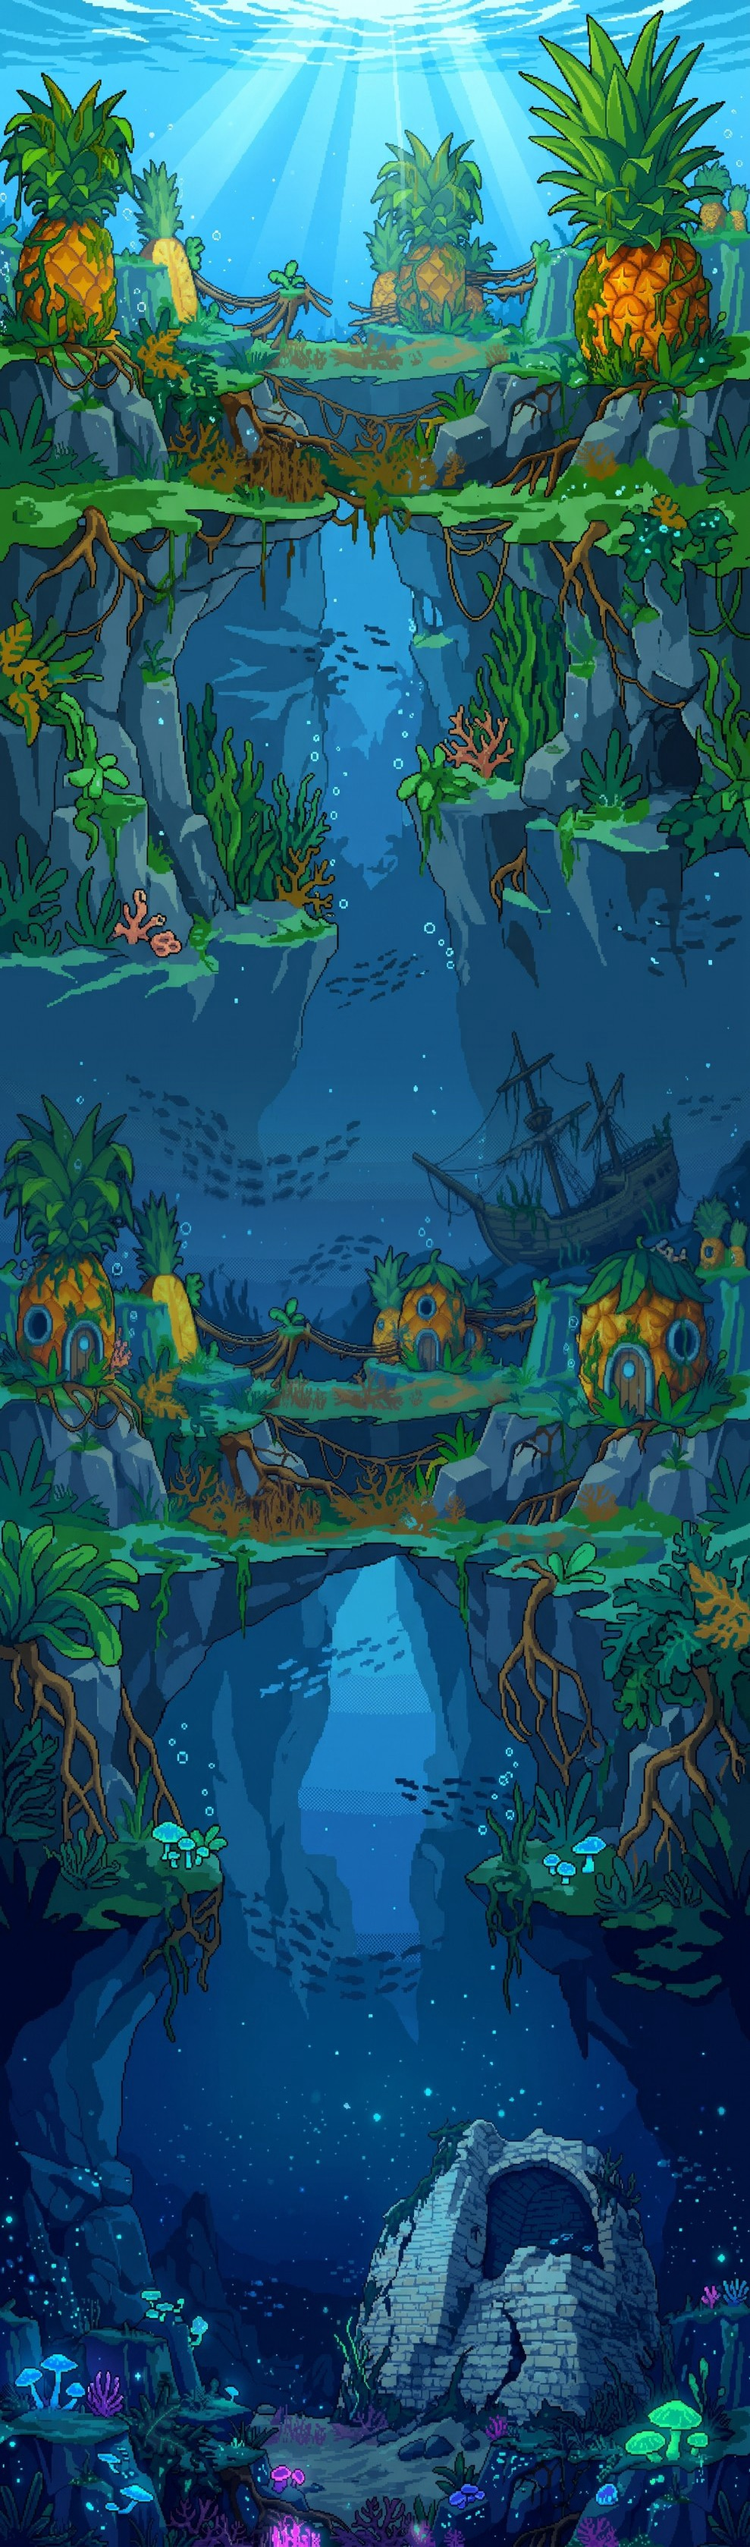
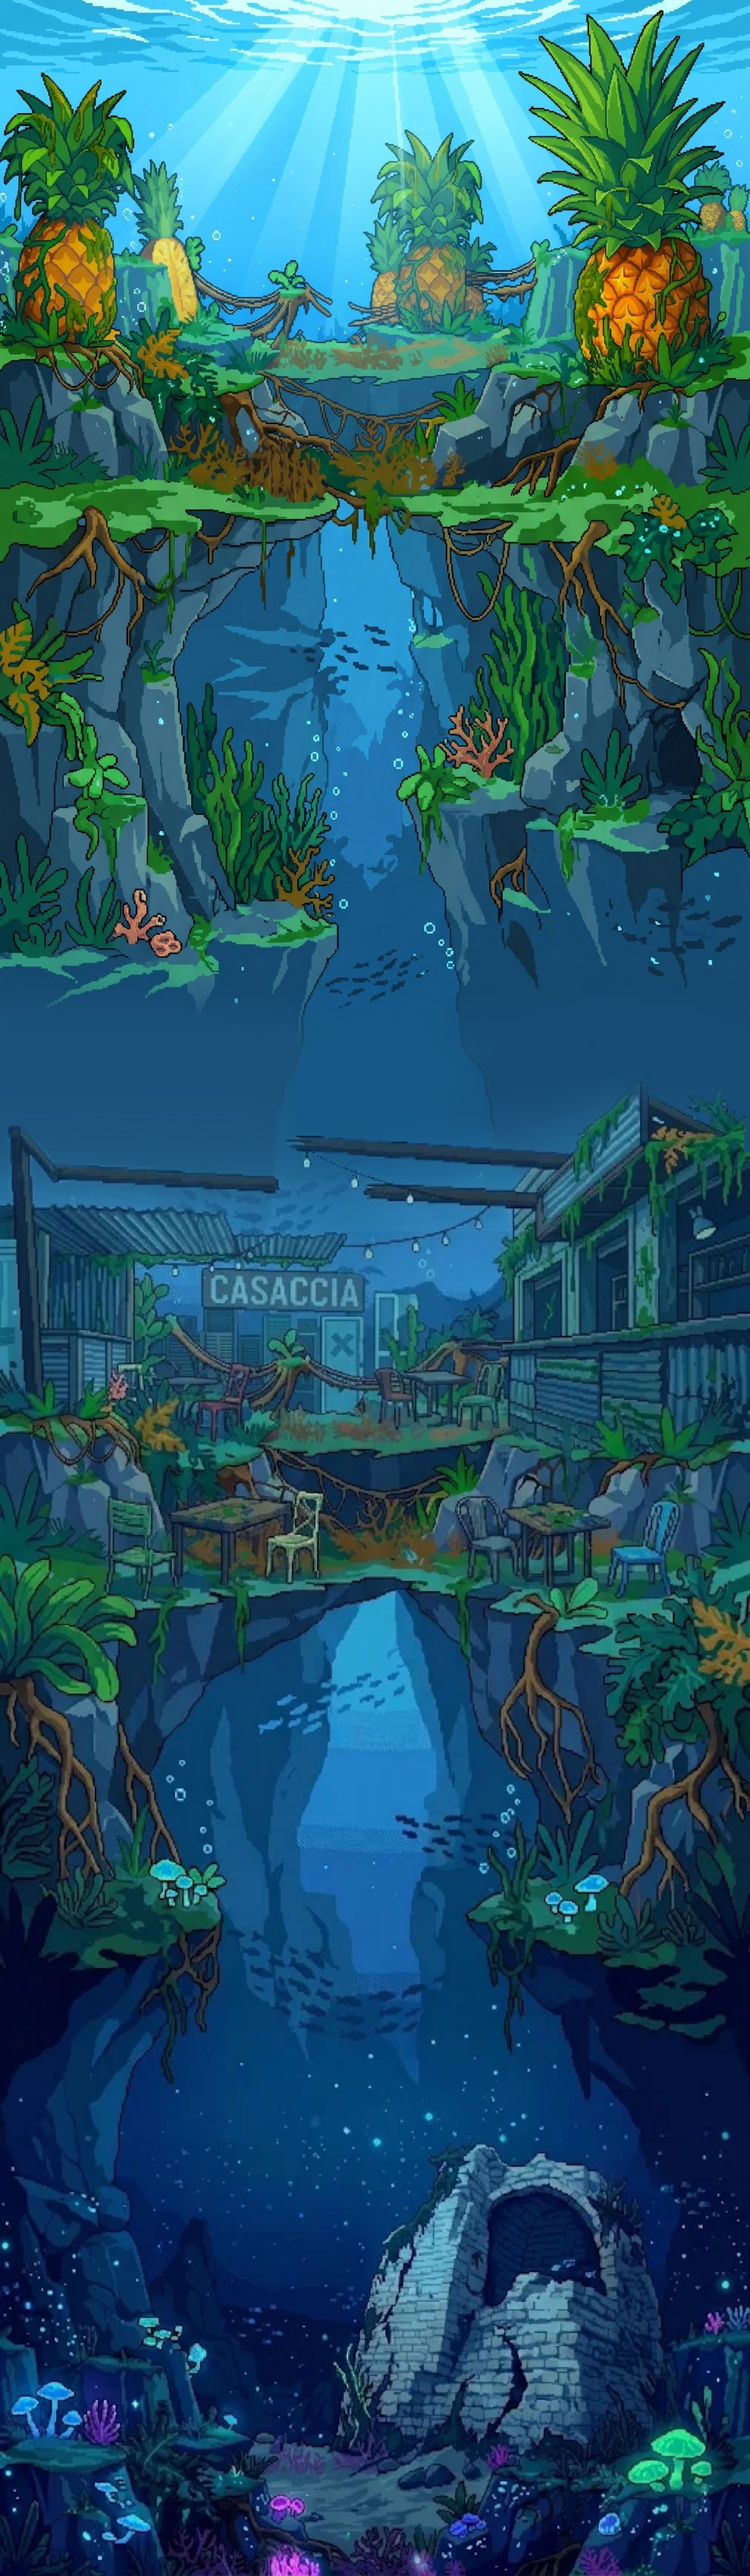
Nuovo fondale sott'acqua: ananas, Casaccia e torre affondata

diff --git a/index.html b/index.html
@@ -20,7 +20,7 @@
 <link rel="preconnect" href="https://fonts.googleapis.com">
 <link rel="preconnect" href="https://fonts.gstatic.com" crossorigin>
 <link rel="stylesheet" href="https://fonts.googleapis.com/css2?family=Bowlby+One&family=Baloo+2:wght@500;700;800&display=swap">
-<link rel="stylesheet" href="style.css?v=123">
+<link rel="stylesheet" href="style.css?v=124">
 
 <div id="schermo">
 <canvas id="d2" aria-label="Gioco Cicciobomba"></canvas>
@@ -89,6 +89,6 @@
 <div id="erroreT" hidden>Il gioco non è riuscito a partire. Controlla la connessione e ricarica la pagina.</div>
 
 </div>
-<script src="game.js?v=123"></script>
+<script src="game.js?v=124"></script>
 
 </body></html>

diff --git a/CLAUDE.md b/CLAUDE.md
@@ -77,7 +77,7 @@ Gioco per browser pensato per il telefono in orizzontale, pubblicato con GitHub 
 - Lele Volley (`palla:true`) è disegnato dall'utente: `boss_schiacciata.png` (schiacciata, 4 fotogrammi da 240x254, ingranditi di 1,45), `boss_pallavolo.png` (5 da 240x434: del primo foglio della schiacciata resta in uso solo la 4, in guardia), `boss_ricezione.png` (3 da 300x339, ingranditi di 1,32) e `boss_stordito.png` (4 da 260x254, ingranditi di 1,35), `boss_sconfitto.png` (4 da 280x254, ingranditi di 1,4: cade, sudato, dorme, KO; resta a terra anche nella schermata finale), originali in `paesaggio/`, disegnati da `disegnaSchiacc` e tutti rimpiccioliti di `BZ`. Quando si sposta usa i passettini di `boss_passi.png` (4 fotogrammi, ingranditi di 1,3: all'utente vanno bene così, non sono una camminata vera); da fermo la posa 4 mossa dal codice. È una partita di pallavolo: rete a `RETE`, Matteo a sinistra (non la passa), il boss a destra (`b.meta`), una sola palla alla volta. Lele è poco più alto di Matteo (`BZ`: 2,08 caselle contro 1,75; alto uguale all'utente sembrava troppo piccolo). Prima del via, quando Matteo si è alzato, dice una frase di sfida in un fumetto (`fumettoSfida`, `SFIDA`). Le sue pose sono di tre quarti, con un piede più in alto dell'altro: nelle pose con i due piedi a terra lo si appoggia su quello più alto, così toccano entrambi e l'altro copre un po' il pavimento. Ogni attacco è una `battuta`: la palla piove, bagher, alzata, schiaccia col cerchio rosso, una volta su tre addosso a Matteo e le altre a 2-5 caselle da lui (`miraPalla`); finché è in gioco, anche dopo il primo rimbalzo, fa male se la tocchi senza scatto; ogni terza è più veloce (`b.forte`). Il boss si colpisce solo ribattendo la palla con lo scatto entro 1,5 caselle (`ribatti`, che rende il fiato): né lo scatto addosso né le esplosioni gli fanno male. In tutta la partita compare un solo cuore, dopo il terzo colpo (`b.cuore`). La prima volta c'è un tutorial sulla prima palla (`M.tut`): spiega il cerchio rosso, ferma il gioco quando la palla è a portata (`G.stato='ora'`, `#tScatto.ora`) e riparte solo con lo scatto, poi spiega le regole (`S.consigli`, chiave `lele_3`). Le fasi sono le vite perse: alla 5 (2 vite) Lele va un po' più veloce, alla 6 (l'ultima) di più (`velFase`, che vale anche per la palla, schiacciate e ribattute: stessa curva percorsa più in fretta, `c.g`), e all'inizio della 6 dice "Prendi questo Cicciobomba!" in un fumetto (`FRASE_6`, senza fermare il gioco). Ogni vita persa allunga lo scambio di una ribattuta (`palloneAlBoss`): 1 con tutte le vite, 6 all'ultima; fino ad allora riceve e rilancia, e a ogni scambio la palla va un po' più veloce.
 - Con `?livello=2` nell'indirizzo la partita parte da sola dall'Abisso (`PARTENZA`), senza menu né guida: serve a provarlo da solo; con `?boss=2` si entra subito nella stanza del boss (`BOSS_SUBITO`). In questi link lo schermo intero parte al primo tocco, perché il browser lo concede solo dopo un gesto.
 - Sott'acqua (`nuoto`, `inAcqua`) Matteo cade da solo: le frecce lo spostano, SALTO nuota su (tenendolo premuto continua, `bracciata`), SCATTO lo spara in basso (`scattoGiu`), rompe le casse ed elimina pesci (`f`) e meduse (`m`). Solo lo scatto li uccide: cadendoci sopra fanno male. Il fiato non si consuma. I muri crepati (`X`) si aprono nuotandoci contro di lato con slancio, se si è carichi. Caratteri in più: `S`, `F`, `~`, `*` riccio, `u` corrente.
-- Il fondale sott'acqua è `fondi/mare.jpg` (`FONDO_MARE`, in `fondaleMare`): le due immagini alte dell'utente (originali `paesaggio/mare_sopra_originale.jpg` e `mare_sotto_originale.jpg`) unite in una sola, sfumando la parte che hanno in comune. Scorre dalla superficie alle rovine con la profondità. `build.py` accetta anche i `.jpg`.
+- Il fondale sott'acqua è `fondi/mare.jpg` (`FONDO_MARE`, in `fondaleMare`), 989x3394: tre disegni dell'utente sovrapposti dove coincidono (originali in `paesaggio/`): `mare_ananas_originale.jpg` in alto, `mare_raccordo_originale.jpg` che ne copre le case-ananas e il veliero e arriva alla Casaccia, `mare_casaccia_originale.webp` con la torre affondata alla fine. Scorre dalla superficie alle rovine con la profondità. `build.py` accetta anche i `.jpg`.
 - Caselle e creature sono **provvisori, disegnati nel codice** nella sezione MARE (per le caselle basta cambiare `mareTile`), in attesa dei disegni dell'utente. I tileset in `~/Downloads/Tilesets` sono grafica estratta da Super Mario Bros.: non vanno messi nel gioco.
 
 ## Note
